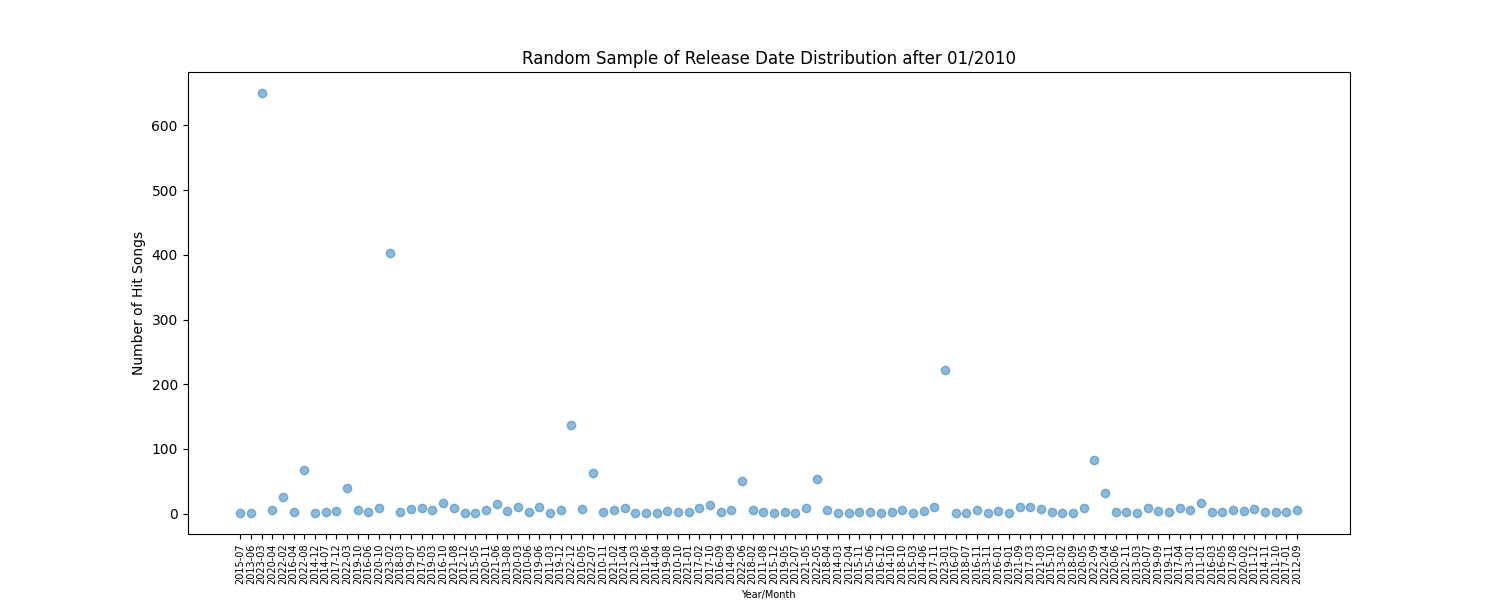
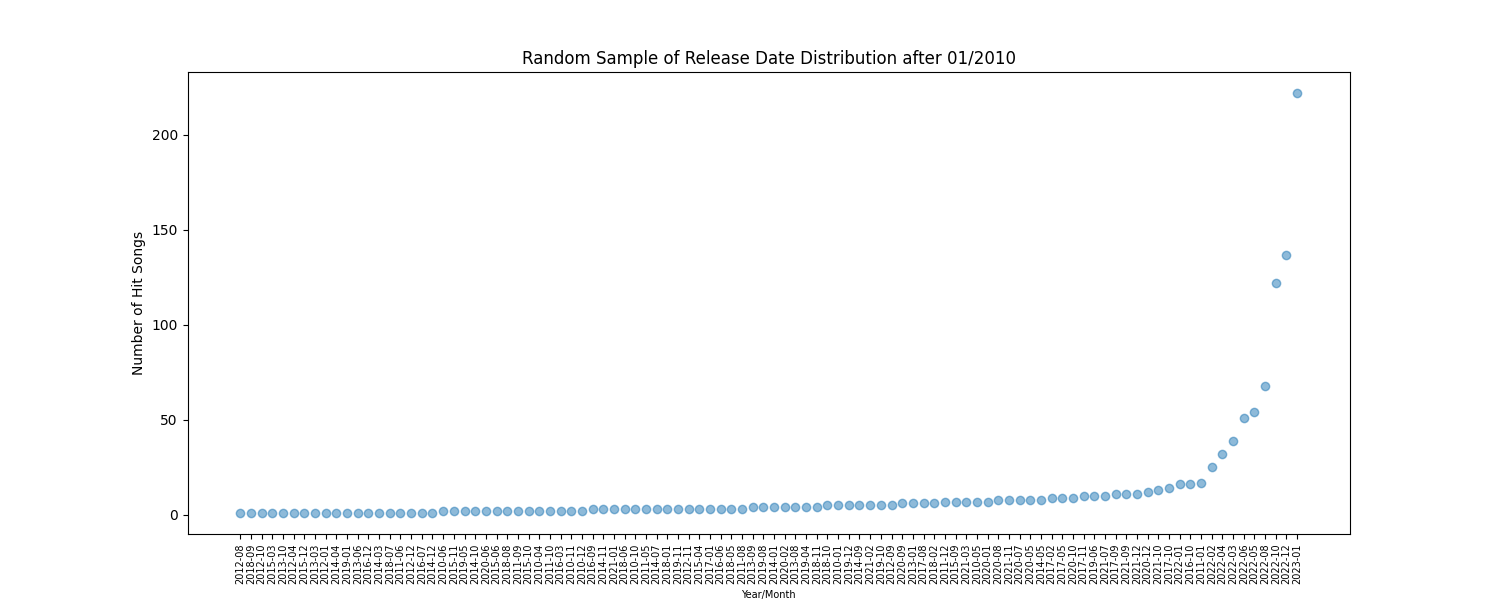
Add files via upload

diff --git a/visualization.py b/visualization.py
@@ -76,7 +76,7 @@ def create_visualizations(data_file, output_dir):
     # Select 100 random values
     random_indices = np.random.choice(len(release_counts), size=100,
                                       replace=False)
-    random_values = release_counts.iloc[random_indices]
+    random_values = release_counts.iloc[random_indices].sort_values()
     # Create scatter plot
     plt.figure(figsize=(15, 6))
     plt.scatter(random_values.index.astype(str), random_values, alpha=0.5)
